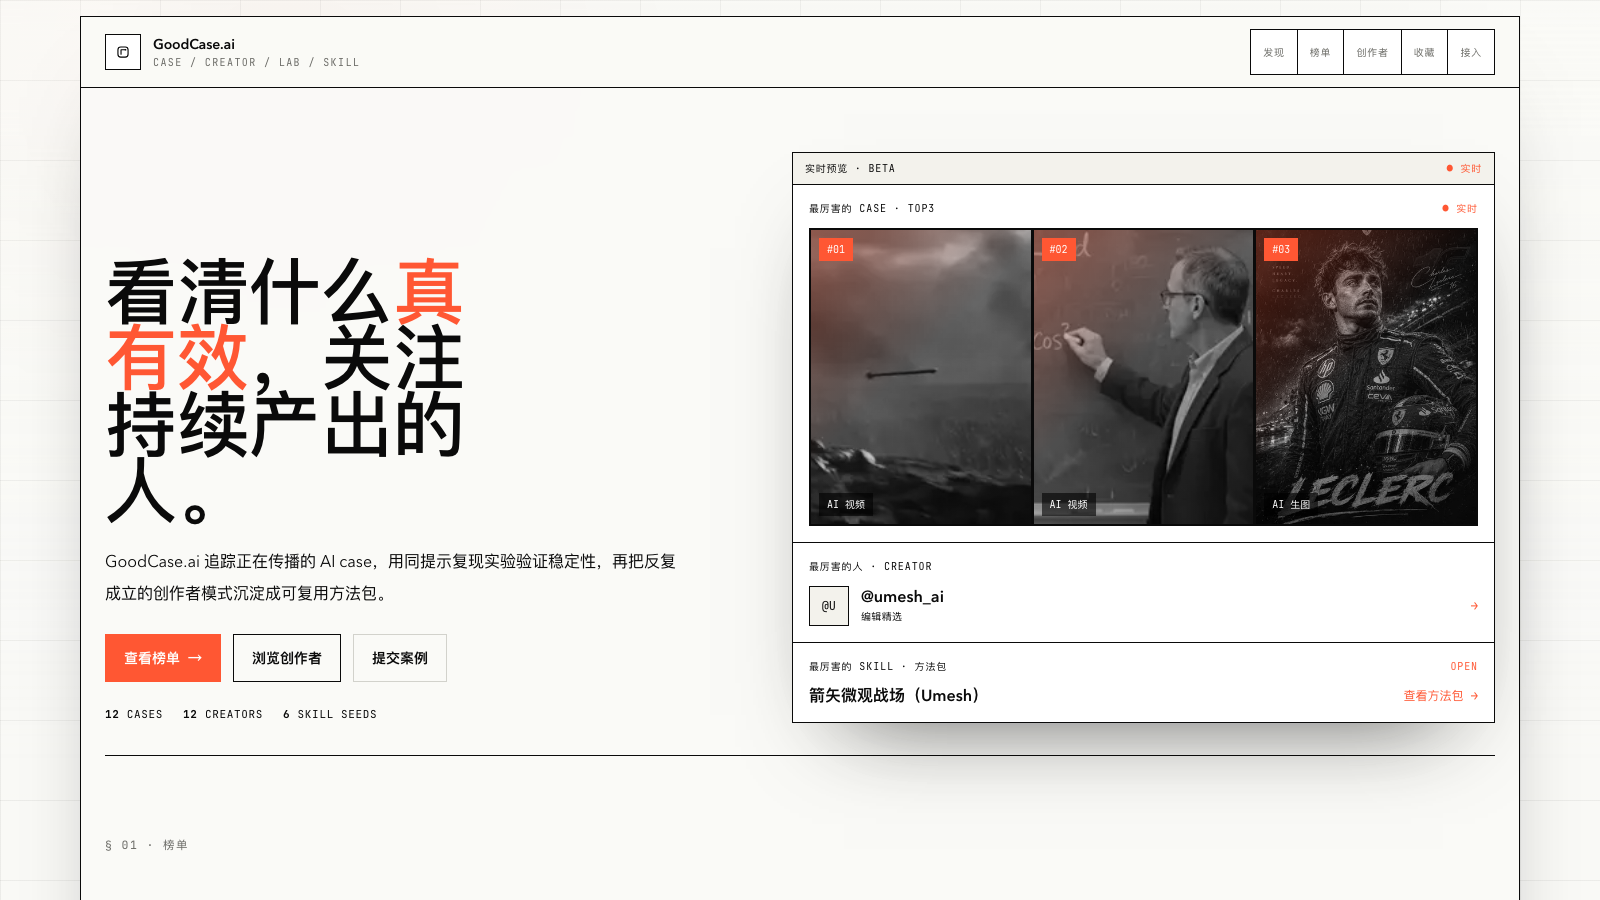
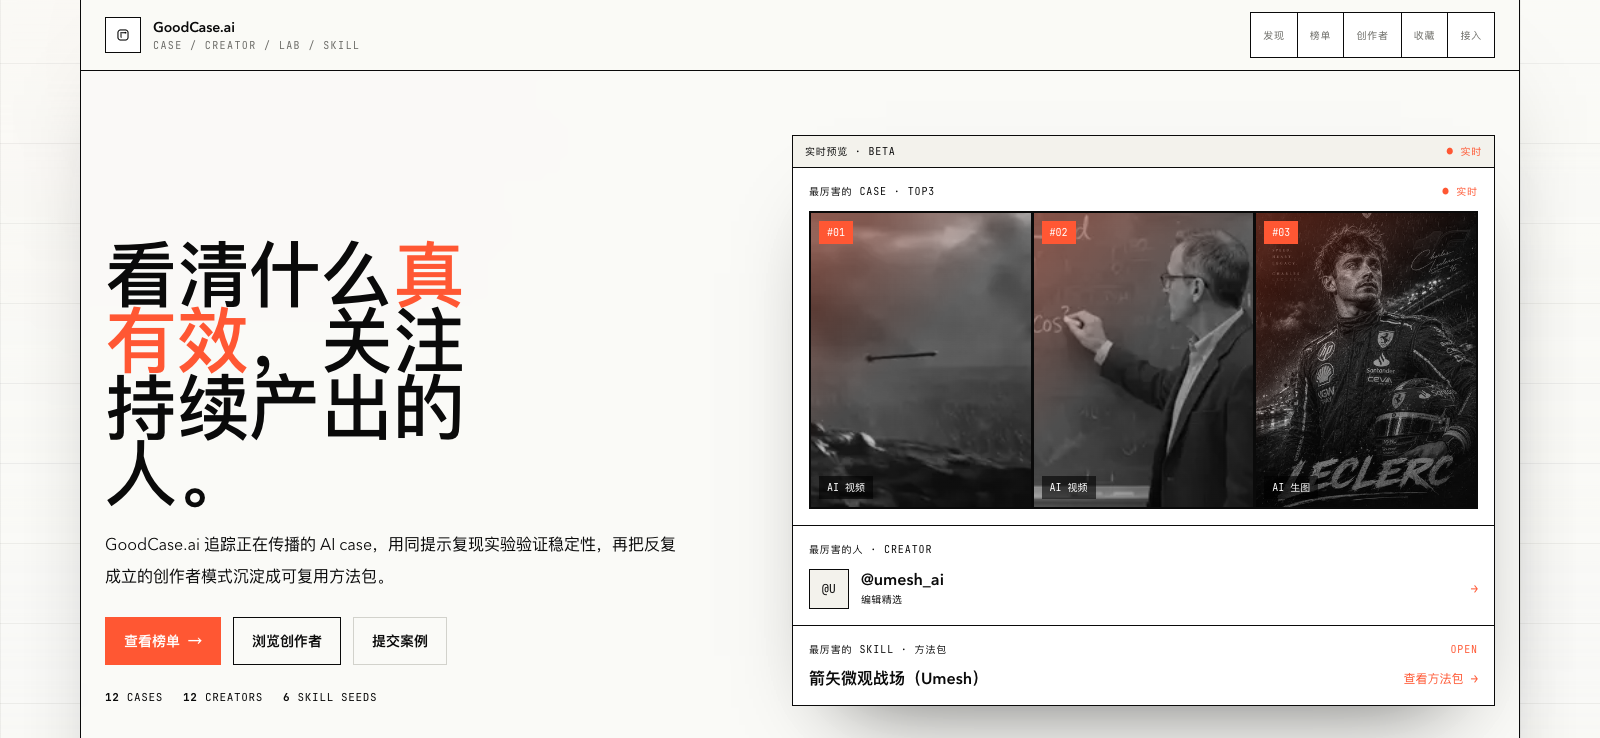
docs: 修正 README 截图裁切，Skill/Creator 图移到四层结构之后
Showcase 只保留 Hero + 榜单；Rankings 截图之前从页面顶部重复截到 Skill 区一半，改为精确裁切 §01 榜单区并展开可滚动列表显示完整10条。

diff --git a/README_EN.md b/README_EN.md
@@ -29,6 +29,10 @@ GoodCase.ai turns this into a complete pipeline: track AI cases while they are s
 
 **Skill** is the distillation. When the same creator keeps producing the same class of pattern, it gets promoted into a skill pack you can use directly.
 
+![Skill packs](public/readme/skill.png)
+
+![Creators](public/readme/creator.png)
+
 ## Run Locally
 
 ```bash

diff --git a/README.md b/README.md
@@ -29,6 +29,10 @@ GoodCase.ai 把这件事接成一条完整的链路：追踪正在传播的 AI c
 
 **Skill** 是沉淀。当同一创作者反复跑出同类模式，它就升级成一个可以直接拿去用的方法包。
 
+![方法包](public/readme/skill.png)
+
+![创作者](public/readme/creator.png)
+
 ## 本地运行
 
 ```bash
